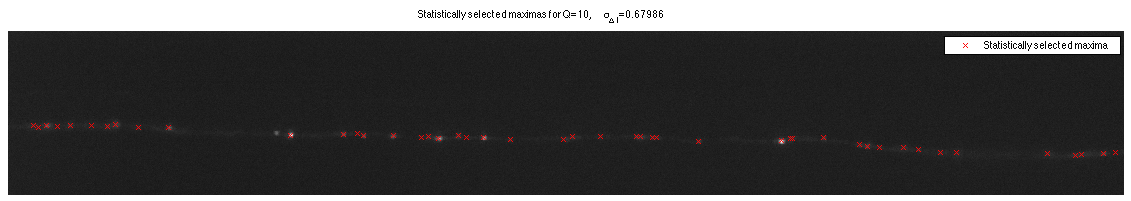
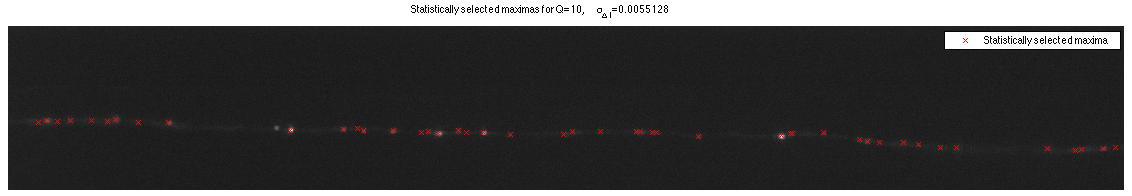
Expanded text, updated layout, fixed figures

diff --git a/Project 2/report/Project2.tex b/Project 2/report/Project2.tex
@@ -2,6 +2,7 @@
 
 \usepackage{amsmath,amsfonts,amsthm,amssymb}
 \usepackage{fancyhdr}
+\usepackage{float}
 \usepackage{lastpage}
 \usepackage{graphicx}
 \usepackage{supertabular}
@@ -69,28 +70,21 @@ Due: \hmwkDueDate\\
 \end{center}
 %%%%%%%%%%%%%%%%%%%%%%%%%%%%%%%%%%%%%%%%%%%%%%%%%%%%%%%%%%%%%
 
-\question{Part 1: Particle Feature Detection}
+\section*{Part 1: Particle Feature Detection}
 
-\textbf{B.2.1}
+\subsection*{B.2.1}
 
-When running the script, a rectangle is manually selected by the user. It is
-assumed to contain only background, and simple statistics are calculated.
+When running the script, a rectangle is manually selected by the user. It is assumed to contain only background, and simple statistics are calculated.
 
-\textbf{B.2.2}
+\subsection*{B.2.2}
 
-Using a 5x5 mask detects noticeably fewer local extrema than using a 3x3 mask,
-as shown in Figures ~\ref{fig:extrema_3} and ~\ref{fig:extrema_5}. This is
-because with a larger mask, the tested point is compared with a larger area of
-neighboring points, reducing its chances of being classified as a local
-extrema.
+The find all extrema, we first filter the image using a Gaussian low pass filter, set to have a sigma of $\frac{1}{3}$ the Rayleigh limit. We then mark extrema as extrema only if they are the largest/smallest pixel inside their mask region.
 
-The minima that are detected in one and not the other appear mostly in the
-background region of the image, and not in the strip of particles we are
-actually attempting to locate. This suggests the larger mask is better at
-rejecting false positives. However, the 5x5 mask seemed to reject some
-real particles as well. Our final results were generated using a 3x3 mask.
+Using a 5x5 mask detects noticeably fewer local extrema than using a 3x3 mask, as shown in Figures ~\ref{fig:extrema_3} and ~\ref{fig:extrema_5}. This is because with a larger mask, the tested point is compared with a larger area of neighboring points, reducing its chances of being classified as a local extrema.
 
-\begin{figure}[h]
+The minima that are detected in one and not the other appear mostly in the background region of the image, and not in the strip of particles we are actually attempting to locate. This suggests the larger mask is better at rejecting false positives. However, the 5x5 mask seemed to reject some real particles as well. Our final results were generated using a 3x3 mask.
+
+\begin{figure}[H]
 \centering
 \includegraphics[width=16cm]{figures/extrema_3_full.png}
 \includegraphics[width=16cm]{figures/extrema_3_zoom.png}
@@ -98,7 +92,7 @@ real particles as well. Our final results were generated using a 3x3 mask.
 \label{fig:extrema_3}
 \end{figure}
 
-\begin{figure}[h]
+\begin{figure}[H]
 \centering
 \includegraphics[width=16cm]{figures/extrema_5_full.png}
 \includegraphics[width=16cm]{figures/extrema_5_zoom.png}
@@ -108,13 +102,13 @@ real particles as well. Our final results were generated using a 3x3 mask.
 
 
 
-\textbf{B.2.3}
+\subsection*{B.2.3}
 
-Detected local maxima and minima in part B.2.2 is further processed by Delaunay Triangulation\cite{delaunaywiki}\cite{delaunaymathworks} as the next step. Delaunay Triangulation is method, that creates sets of triangles from given data points, whose circumcircles do not contain any vertices of neighboring triangles. In addition, this method targets to maximize the smallest angle in each created triangle. If the local minima are triangulated, then the local maxima could be assigned to each triangle evidently, eliminating some of the local maxima further. That is to say, if a Delaunay Triangle of local minima contain more than 1 local maxima, only the local maxima that has the highest intensity is accepted and rest is assumed artifacts.
+Detected local maxima and minima in part B.2.2 is further processed by Delaunay Triangulation\cite{delaunaywiki}\cite{delaunaymathworks} as the next step. Delaunay Triangulation creates sets of triangles from given data points, whose circumcircles do not contain any vertices of neighboring triangles. In addition, this method targets to maximize the smallest angle in each created triangle. If the local minima are triangulated, then the local maxima could be assigned to each triangle evidently, eliminating some of the local maxima further. That is to say, if a Delaunay Triangle of local minima contain more than 1 local maxima, only the local maxima that has the highest intensity is accepted and rest is assumed artifacts. The method also assigns three distinct minima to each maxima, based on what triangle the maxima is contained by. These minima are used to compute how prominent the maxima are.
 
 When implementing this part, the \emph{DelaunayTri} class is used, as it was a built-in function in MATLAB. After that, the maxima that fall into each triangle are found. For this purpose, the matrix of local maxima and each minima triangle are swept with \emph{inpolygon}, also already available in MATLAB. This function returns the maxima that are inside or on top of the triangle vertices. Finally, among the found local maxima, the one with the highest intensity is stored as the \emph{associated local maxima} for each triangle. The triangles and their associated local maxima are shown in Figure \ref{fig:assocLocal}.
 
-\begin{figure}[h]
+\begin{figure}[H]
 \centering
 \includegraphics[width=16cm]{figures/delaunay_full.png}
 \includegraphics[width=16cm]{figures/delaunay_zoom.png}
@@ -124,9 +118,9 @@ When implementing this part, the \emph{DelaunayTri} class is used, as it was a b
 
 
 
-\textbf{B.2.4}
+\subsection*{B.2.4}
  
-The associated maxima found by Delaunay Triangulation method previously are further investigated in this part, in order to quantify a level of confidence for the detected particles. The question allowed to remove the speckle intensity variation term ($\sigma^2(I_L)$) in equation (4) of reference \cite{ponti}, as well as assuming that the local minima intensities' mean and variance match the cropped region's intensity mean and variance in Part B.2.1. Thanks to these simplifications, the task here reduces to comparison of background to the detected speckle in terms of intensity, with a chosen level of confidence. If this task is expressed in mathematical form, following \cite{ponti}:
+The associated maxima found by Delaunay Triangulation method previously are further investigated in this part, in order to quantify a level of confidence for the detected particles. The section* allowed to remove the speckle intensity variation term ($\sigma^2(I_L)$) in equation (4) of reference \cite{ponti}, as well as assuming that the local minima intensities' mean and variance match the cropped region's intensity mean and variance in Part B.2.1. Thanks to these simplifications, the task here reduces to comparison of background to the detected speckle in terms of intensity, with a chosen level of confidence. If this task is expressed in mathematical form, following \cite{ponti}:
 
 \begin{align}
 I_{maxima} - \mu_{BG} &= Q\cdot \sigma_{\Delta I}\\
@@ -138,7 +132,7 @@ I_{maxima} - \mu_{BG} &= Q\cdot \sigma_{\Delta I}\\
 
 The only variable that is not defined by the image is the selection quantile, Q. It is, however, recommended to be chosen as a value, such that it matches the speckles that could be seen by bare eyes, when the images are shown in MATLAB. For this reason, the Q is chosen as 10. The resulting speckle detection is shown in figure \ref{fig:statMax}.
 
-\begin{figure}[h]
+\begin{figure}[H]
 \centering
 \includegraphics[width=16cm]{figures/statistics_maxima_full.png}
 \includegraphics[width=16cm]{figures/statistics_maxima_zoom.png}
@@ -147,7 +141,65 @@ The only variable that is not defined by the image is the selection quantile, Q.
 \label{fig:statMax}
 \end{figure}
  
-\textbf{Appendix A: Reproducing The Results}
+
+
+\pagebreak
+\section*{Part 2: Sub-pixel Resolution Particle Detection}
+
+\subsection*{B.3.1}
+
+Synthetic image generation is largely similar to the process used by Cheezum et al.\cite{cheezum}. First, a list of maxima are used to generate single pixel impulses. The intensity of these impulses is set to the intensity of the original image at the locations of the maxima. The image is then filtered using a Gaussian kernel to simulate the main lobe of our point spread function, and Gaussian white noise is added on top of the image.
+
+The levels of our white noise was chosen based on the computed background statistics from part B.2.1. The results of this process can be seen in Figure \ref{fig:syntheticImage}; it closely resembles the actual image it was generated from.
+
+\begin{figure}[H]
+\centering
+\includegraphics[width=16cm]{figures/synthetic_image.png}
+\caption{A sample synthetic image, and the original image it was generated from}
+\label{fig:syntheticImage}
+\end{figure}
+
+
+\subsection*{B.3.2}
+
+To perform subpixel detection, the test image is first upsampled by a factor of 5. After this, a Gaussian kernel is created with the side of the Rayleigh limit. Then, starting at each pixel-resolution maxima found in Part 1, we search an area of one pixel in each direction. The Gaussian kernel is scaled by the center point at each location, and the error between the image and the kernel is calculated. The location with the lowest error is chosen as the true particle location. See Figure \ref{fig:subpixelReal} for sample subpixel detection results, and the next section for a statistical analysis of our accuracy.
+
+\begin{figure}[H]
+\centering
+\includegraphics[width=16cm]{figures/subpixel_real_full.png}
+\includegraphics[width=16cm]{figures/subpixel_real_zoom.png}
+\caption{The detected particle locations using subpixel Gaussian fitting, full and zoomed}
+\label{fig:subpixelReal}
+\end{figure}
+
+
+\subsection*{B.3.3}
+
+To test the performance of our subpixel Gaussian fitting algorithm, we identify the locations of our particles in the synthetic image. Since we know exactly where these particles were located, we compared the results returned by the Gaussian fitting with the known center coordinates. The error between the detected and actual x- and y- coordinates was calculated, and found to have the following statistics:
+
+\begin{center}
+\begin{tabular}{r | c | c}
+               & y-coordinate & x-coordinate \\ \hline
+    Mean Error & -0.042 px      & 0 px       \\
+    Error STD  & 0.202 px       & 0.206 px
+\end{tabular}
+\end{center}
+
+Our fitting was found to be largely unbiased, and accurate to within a fifth of a pixel. It correctly reported the location of 44 out of our 48 particles. Note that our synthetic image was low noise; its background noise followed the same statistics as the (relatively clean) source image it was generated from. This suggests the performance of our fitting is strong under high quality imaging.
+
+\begin{figure}[H]
+\centering
+\includegraphics[width=16cm]{figures/subpixel_synthetic_full.png}
+\includegraphics[width=16cm]{figures/subpixel_synthetic_zoom.png}
+\caption{The detected particle locations using subpixel Gaussian fitting on a
+    synthetic image, full and zoomed}
+\label{fig:subpixelSynthetic}
+\end{figure}
+
+
+
+\pagebreak
+\section*{Appendix A: Reproducing The Results}
  
 The results could be reproduced as in the class presentation and this report, by setting 2 parameters in the main project m-file, ``pr2.m'', the following way.
 \begin{enumerate}
@@ -167,60 +219,6 @@ plotting = false;
 The MATLAB environment files in `.mat' format are stored in the `mat\_files' directory in the project root.
 \end{enumerate}
  
-
-
-
-\pagebreak
-\question{Part 2: Sub-pixel Resolution Particle Detection}
-
-\textbf{B.3.1}
-
-Synthetic image generation is largely similar to the process used by Cheezum et al.\cite{cheezum}. First, a list of maxima are used to generate single pixel impulses. The intensity of these impulses is set to the intensity of the original image at the locations of the maxima. The image is then filtered using a Gaussian kernel to simulate the main lobe of our point spread function, and Gaussian white noise is added on top of the image.
-
-The levels of our white noise was chosen based on the computed background statistics from part B.2.1. The results of this process can be seen in Figure \ref{fig:syntheticImage}; it closely resembles the actual image it was generated from.
-
-\begin{figure}[h]
-\centering
-\includegraphics[width=16cm]{figures/synthetic_image.png}
-\caption{A sample synthetic image, and the original image it was generated from}
-\label{fig:syntheticImage}
-\end{figure}
-
-
-\textbf{B.3.2}
-
-\begin{figure}[h]
-\centering
-\includegraphics[width=16cm]{figures/subpixel_real_full.png}
-\includegraphics[width=16cm]{figures/subpixel_real_zoom.png}
-\caption{The detected particle locations using subpixel Gaussian fitting, full and zoomed}
-\label{fig:subpixelReal}
-\end{figure}
-
-
-\textbf{B.3.3}
-
-To test the performance of our subpixel Gaussian fitting algorithm, we used to to identify the locations of our particles in the synthetic image. Since we know exactly where these particles were located, we compared the results returned by the Gaussian fitting with the known center coordinates. The error between the two x and y coordinates was calculated, and found to have the following statistics:
-
-\begin{center}
-\begin{tabular}{r | c | c}
-               & y-coordinate & x-coordinate \\ \hline
-    mean error & -0.042 px      & 0 px       \\
-    error std  & 0.202 px       & 0.206 px
-\end{tabular}
-\end{center}
-
-Our fitting was found to be largely unbiased, and accurate to within a fifth of a pixel. It correctly reported the location of 44 out of our 48 particles. Note that our synthetic image was low noise; its background noise followed the same statistics as the (relatively clean) source image it was generated from. This suggests the performance of our fitting is strong under high quality imaging.
-
-\begin{figure}[h]
-\centering
-\includegraphics[width=16cm]{figures/subpixel_synthetic_full.png}
-\includegraphics[width=16cm]{figures/subpixel_synthetic_zoom.png}
-\caption{The detected particle locations using subpixel Gaussian fitting on a
-    synthetic image, full and zoomed}
-\label{fig:subpixelSynthetic}
-\end{figure}
-
 
 
 \pagebreak
